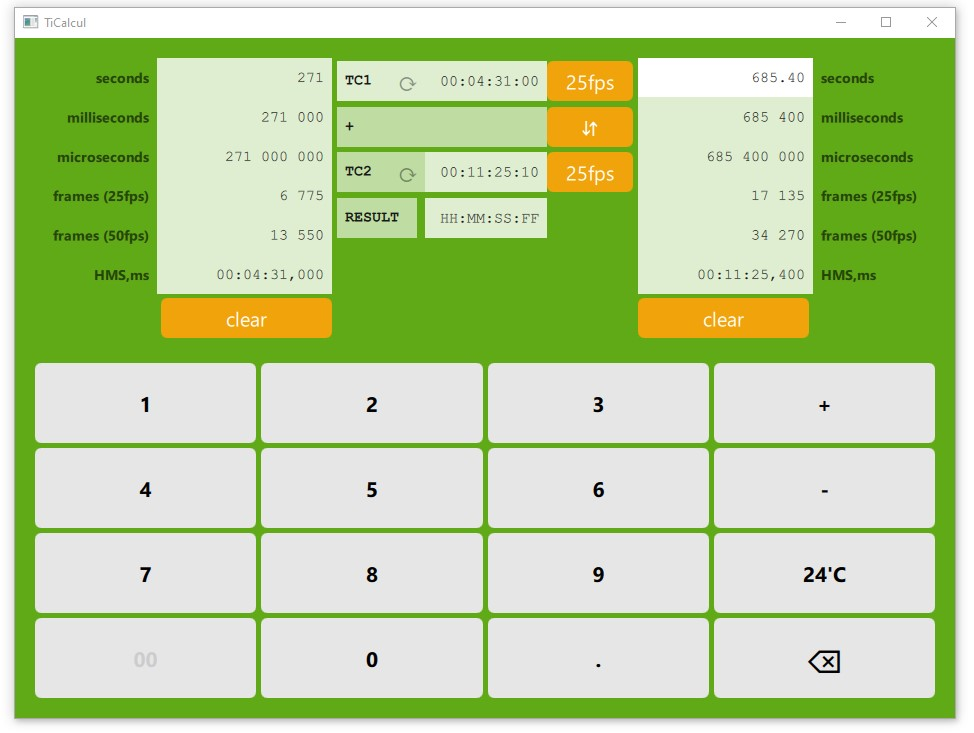
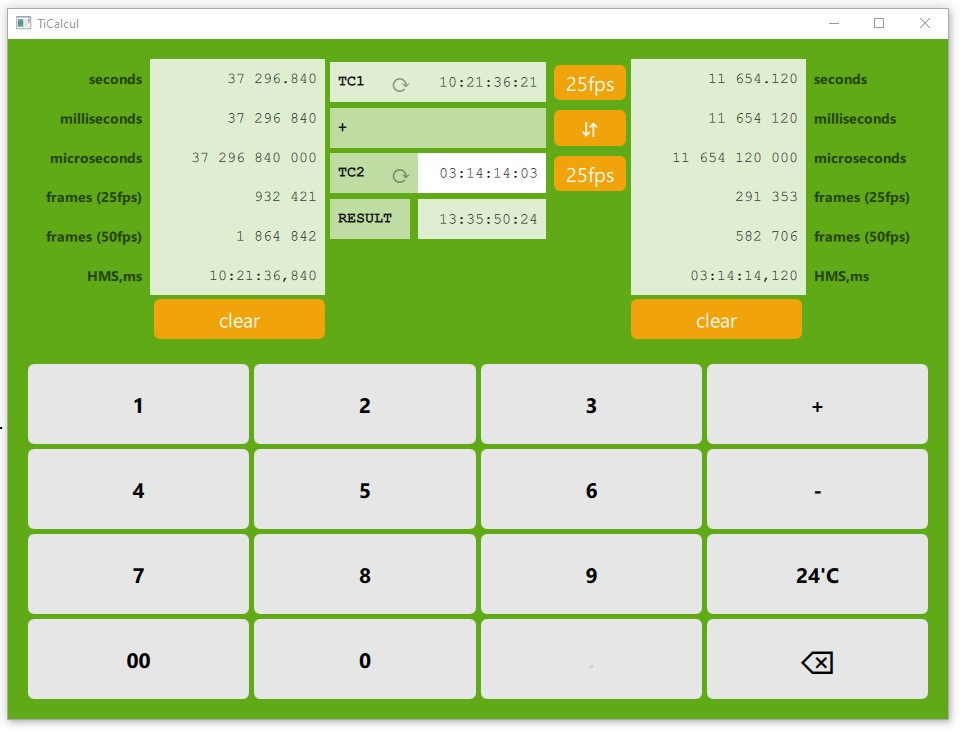
Rafraichissement en temps réel des résultats

diff --git a/Qml/Vues/CalculFrameForm.ui.qml b/Qml/Vues/CalculFrameForm.ui.qml
@@ -17,7 +17,7 @@ Item {
     GridLayout {
         id: zoneResults
         anchors.fill: parent
-        Layout.margins: 24
+        //Layout.margins: 24
         columnSpacing: 0
         rowSpacing: 0
         columns: 4
@@ -53,6 +53,9 @@ Item {
             buttonText: tc1_aff_4.framerate + "fps"
             Layout.fillHeight: false
             Layout.fillWidth: false
+            Layout.leftMargin: 8
+            backg.implicitHeight: 32
+            backg.implicitWidth: 72
         }
 
         // ------------------------------------------------------------
@@ -71,6 +74,9 @@ Item {
             buttonText: "⇵"
             Layout.fillHeight: false
             Layout.fillWidth: false
+            Layout.leftMargin: 8
+            backg.implicitHeight: 32
+            backg.implicitWidth: 72
         }
 
         // ------------------------------------------------------------
@@ -103,7 +109,9 @@ Item {
             buttonText: tc2_aff_4.framerate + "fps"
             Layout.fillHeight: false
             Layout.fillWidth: false
-            padding: 8
+            Layout.leftMargin: 8
+            backg.implicitHeight: 32
+            backg.implicitWidth: 72
         }
 
         // ------------------------------------------------------------

diff --git a/Sources/calculateur.cpp b/Sources/calculateur.cpp
@@ -16,37 +16,41 @@ Calculateur::Calculateur(Operande* tc1, Operande* tc2, Operande* result, QObject
 }
 
 /*! **********************************************************************************************************
- * \brief Calculateur::complement
+ * \brief Calcule le complément à 24H de TC1 et envoie le résultat à l'opérande Result.
  ************************************************************************************************************* */
 void Calculateur::complement()
 {
+    mOperation = complt;
     qint64 value = mTC1->valeurPivot();
     // la valeur doit être positive et inférieure à 24h.
+    // TODO: sinon, on efface le résultat
     if (value > Converter::us_PerDay) return;
     if (value < 0) return;
     mResult->setValeurPivot(Converter::us_PerDay - value);
 }
 
 /*! **********************************************************************************************************
- * \brief Calculateur::add
+ * \brief Calcule la somme TC1+TC2 et envoie le résultat à l'opérande Result.
  ************************************************************************************************************* */
 void Calculateur::add()
 {
+    mOperation = addition;
     qint64 somme = mTC1->valeurPivot() + mTC2->valeurPivot();
     mResult->setValeurPivot(somme);
 }
 
 /*! **********************************************************************************************************
- * \brief Calculateur::substract
+ * \brief Calcule la différence TC1-TC2 et envoie le résultat à l'opérande Result.
  ************************************************************************************************************* */
 void Calculateur::substract()
 {
+    mOperation = soustraction;
     qint64 result = mTC1->valeurPivot() - mTC2->valeurPivot();
     mResult->setValeurPivot(result);
 }
 
 /*! **********************************************************************************************************
- * \brief Calculateur::swap
+ * \brief Echange la valeur des operandes TC1 et TC2.
  ************************************************************************************************************* */
 void Calculateur::swap()
 {
@@ -54,4 +58,24 @@ void Calculateur::swap()
     qint64 temp_2 = mTC2->valeurPivot();
     mTC1->setValeurPivot(temp_2, true);
     mTC2->setValeurPivot(temp_1, true);
+}
+
+/*! **********************************************************************************************************
+ * \brief Si la valeur de l'un des opérandes à changé, on actualise le resultat.
+ ************************************************************************************************************* */
+void Calculateur::onValeurPivotChanged()
+{
+    switch (mOperation) {
+    case addition:
+        this->add();
+        break;
+    case soustraction:
+        this->substract();
+        break;
+    case complt:
+        this->complement();
+        break;
+    default:
+        break;
+    }
 }

diff --git a/main.cpp b/main.cpp
@@ -37,16 +37,26 @@ int main(int argc, char* argv[])
     QQmlContext* context = engine.rootContext();
 
     // ------------------------------------------------------------
-    // On ajoute au contexte les classes qui ont des property QML
+    // On ajoute les classes qui ont des property au contexte QML
     // ------------------------------------------------------------
     context->setContextProperty("operandeTC1", &operande_tc1);
     context->setContextProperty("operandeTC2", &operande_tc2);
     context->setContextProperty("operandeRES", &operande_res);
     context->setContextProperty("calculateur", &calculateur);
 
+    // ------------------------------------------------------------
+    // Chaque operande ajoute ses afficheurs au contexte QML
+    // ------------------------------------------------------------
     operande_tc1.registerContext(context);
     operande_tc2.registerContext(context);
     operande_res.registerContext(context);
+
+    // ------------------------------------------------------------
+    // Connexions
+    // ------------------------------------------------------------
+    // Les operandes signalent au calculateur si leur valeur pivot change.
+    QObject::connect(&operande_tc1, SIGNAL(valeurPivotChanged(qint64,bool)), &calculateur, SLOT(onValeurPivotChanged()));
+    QObject::connect(&operande_tc2, SIGNAL(valeurPivotChanged(qint64,bool)), &calculateur, SLOT(onValeurPivotChanged()));
 
     // ------------------------------------------------------------
     // On ajoute le type Afficheur au contexte QML.

diff --git a/Sources/operande.cpp b/Sources/operande.cpp
@@ -32,11 +32,11 @@ Operande::Operande(const QString name, QObject* parent)
     // Connexions pour les afficheurs instanciées
     for (it=afficheurs.begin(); it != afficheurs.end();  it++)
     {
-        // Connexions: Envoi de la valeur pivot aux afficheurs.
+        // Envoi de la valeur pivot aux afficheurs.
         QObject::connect(this, SIGNAL(valeurPivotChanged(qint64,bool)), *it, SLOT(setValue(qint64,bool)));
-        // Connexions: Signale aux afficheurs que la valeur pivot a été effacée.
+        // Signale aux afficheurs que la valeur pivot a été effacée.
         QObject::connect(this, SIGNAL(valeurPivotCleared()), *it, SLOT(clearValue()));
-        // Connexions: Réception des modifications de la valeur pivot.
+        // Réception des modifications de la valeur pivot.
         QObject::connect(*it, SIGNAL(setValeurPivot(qint64)), this, SLOT(setValeurPivot(qint64)));
     }
 }

diff --git a/Sources/calculateur.h b/Sources/calculateur.h
@@ -21,13 +21,15 @@ public:
     Q_INVOKABLE void substract();
     Q_INVOKABLE void swap();
 
-signals:
-
+public slots:
+    void onValeurPivotChanged();
 
 private:
     Operande* mTC1;         //!< premier opérande.
     Operande* mTC2;         //!< second opérande.
     Operande* mResult;      //!< opérande résultat.
+    enum Operation {none, addition, soustraction, complt}
+        mOperation = none;  //!< opération en cours
 };
 
 #endif // CALCULATEUR_H
